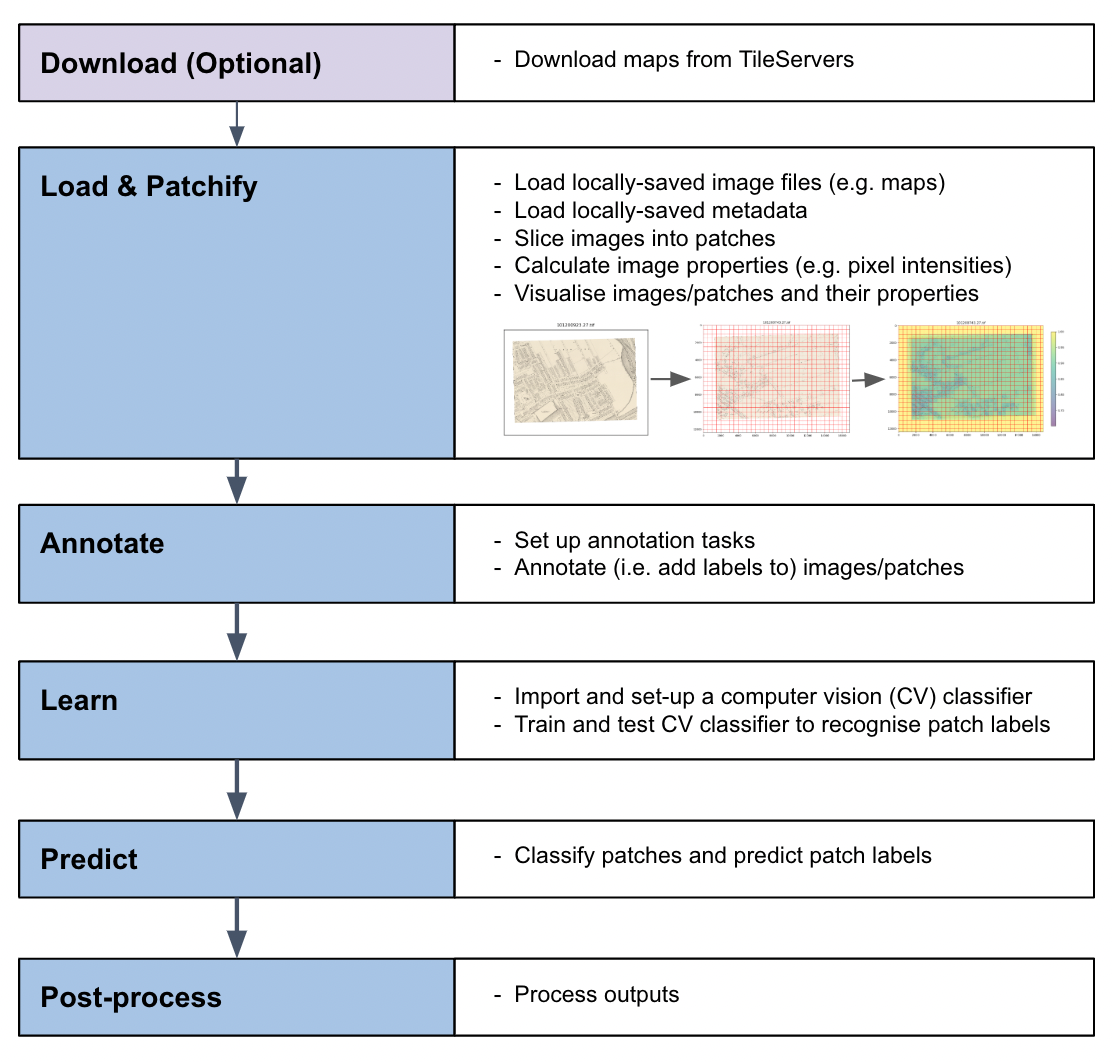
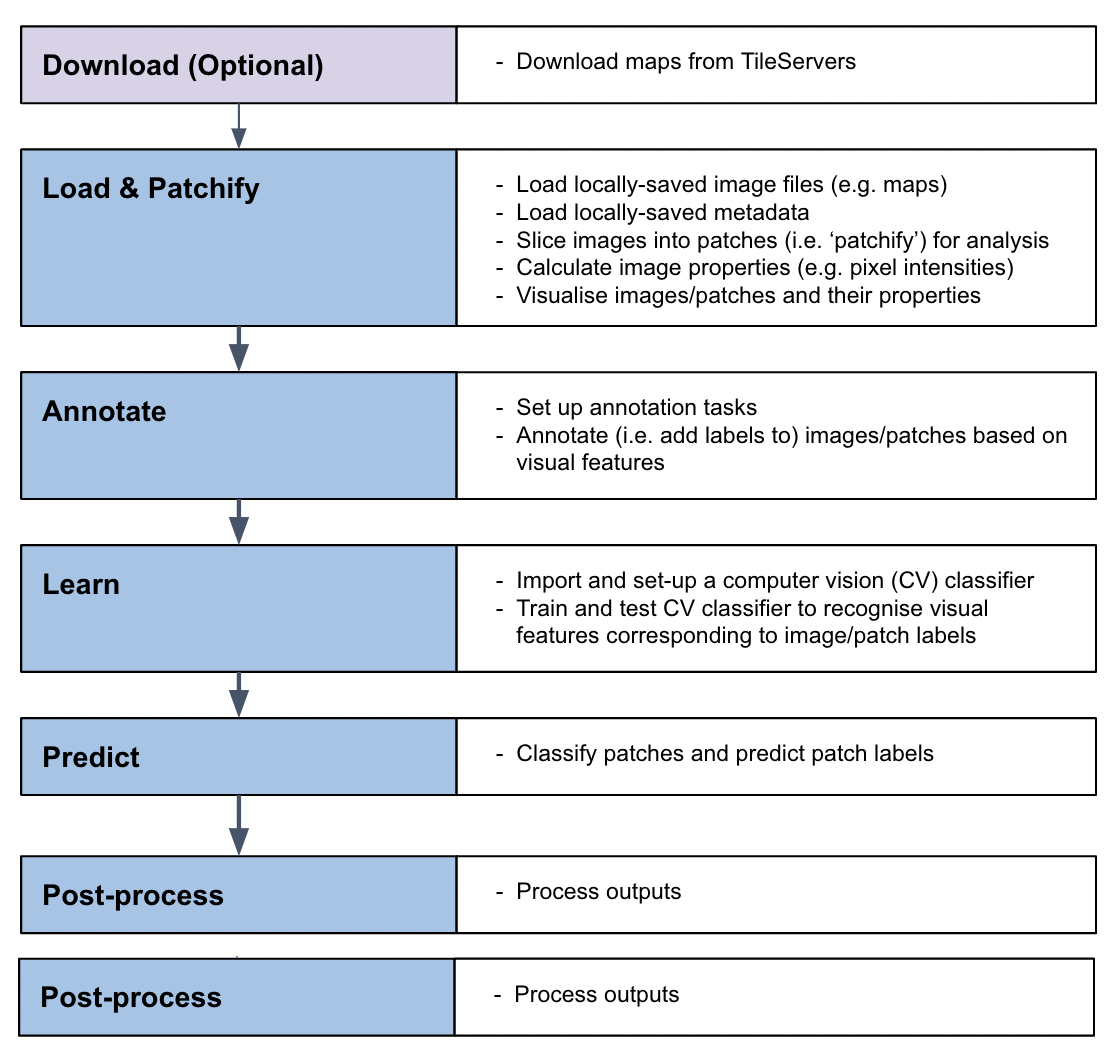
more updates to about and input guidance

Changed region(s): [[0.0, 0.0, 1.0, 0.9011], [0.9784, 0.7768, 1.0, 0.8701], [0.9784, 0.0311, 1.0, 0.0932]]

diff --git a/docs/source/About.rst b/docs/source/About.rst
@@ -6,54 +6,59 @@ What is MapReader?
 
 MapReader is an end-to-end computer vision (CV) pipeline for exploring and analyzing images at scale.
 
-The 'pipeline'
-~~~~~~~~~~~~~~~
+What is unique about MapReader?
+~~~~~~~~~~~~~~~~~~~~~~~~~~~~~~~~
 
-The MapReader pipeline consists of a linear sequence of tasks which can be used to:
+MapReader is based on the 'patchwork method' in which whole map images are sliced into a grid of squares or 'patches':
 
-1. **Download** images/maps and metadata stored on web-servers (e.g. tileserves which can be used to retrieve maps from OpenStreetMap (OSM), the National Library of Scotland (NLS), or elsewhere).
-2. **Load** images/maps and metadata stored locally and **pre-process** these:
-   - 'patchify' images/maps (i.e. slice a whole image/map into smaller patches for analysis),
-   - resample images/maps (use image transformations to alter pixel-dimensions/resolution/orientation/etc.),
-   - remove borders outside the neatline,
-   - reproject maps between coordinate reference systems (CRS).
-3. **Annotate** (i.e. add labels to) images/maps or their patches using an interactive annotation tool.
-4. **Train or fine-tune** a computer vision (CV) classifier to recognise image features associated with these labels.
-5. Use inference to **predict labels** on large sets of images/maps or their patches. 
-6. **Post-process**, analyse and visualise outputs.
+.. image:: figures/patchify.png
+
+This unique way of pre-processing map images enables the use of image classification to identify visual features within maps, in order to answer important research questions.
+
+What is 'the MapReader pipeline'?
+~~~~~~~~~~~~~~~~~~~~~~~~~~~~~~~~~~
+
+The MapReader pipeline consists of a linear sequence of tasks:
 
 .. image:: figures/pipeline_explained.png
+
+Together, these tasks can be used to train a computer vision (CV) classifier to recognise visual features within maps and identify patches containing these features across entire map collections.
+
+What kind of visual features can MapReader help me identify?
+~~~~~~~~~~~~~~~~~~~~~~~~~~~~~~~~~~~~~~~~~~~~~~~~~~~~~~~~~~~~~~~~
+
+In order to train a CV classifier to recognise visual features within your maps, your features must have a homogeneous visual signal across your map collection (i.e. always be represented in the same way).
 
 Why use MapReader?
 -------------------
 
-**Do you want to search the visual contents of a large set of maps to answer a question about the past?**
-MapReader can help you find instances of spatial phenomena in a collection of maps that is too large for you to 'close read/view'.
+MapReader becomes useful when the number of maps you wish to analyse exceeds the number which you (or your team) are willing/capable of annotating manually.
 
-MapReader enables quick, flexible research with large map corpora. 
-It is based on the patchwork method, e.g. scanned map sheets are preprocessed to divide up the content of the map into a grid of squares, or "patches". 
+This exact number will vary depending on:
 
-Using image classificaion at the level of each patch allows users to define classes (labels) of features on maps related to their research questions.
+- the size of your maps, 
+- the features you want to find,
+- the skills you (or your team) have,
+- the amount of time at your disposal.
+ 
+Deciding to use MapReader, which uses deep learning computer vision (CV) models to predict the class of content on patches across many sheets, means weighing the pros and cons of working with the data output that is inferred by the model. 
+Inferred data can be evaluated against expert-annotated data to understand its general quality (are all instances of a feature of interest identified by the model? does the model apply the correct label to that feature?), but in the full dataset there *will necessarily be* some percentage of error. 
 
 MapReader creates output that you can link and analyze in relation to other geospatial datasets (e.g. census, gazetteers, toponyms in text corpora).
 
-You might be interested in using MapReader if...
-~~~~~~~~~~~~~~~~~~~~~~~~~~~~~~~~~~~~~~~~~~~~~~~~~~
+Who might be interested in using MapReader?
+--------------------------------------------
 
-* you have access to a large corpus of georeferenced maps (MapReader can still provide results for non-georeferenced maps)
-* you want to quickly test different labels to help refine a research question that depends on finding content on maps before/without committing to manual vector data creation
-* your maps were created before surveying accuracy reached modern standards, and therefore you do not want to create overly precise geolocated data based on the content of those maps 
+MapReader might be useful to you if:
 
-MapReader is well-suited for finding spatial phenomena that...
-~~~~~~~~~~~~~~~~~~~~~~~~~~~~~~~~~~~~~~~~~~~~~~~~~~~~~~~~~~~~~~~~
+- You have access to a large collection of maps and want to identify visual features within them without having to manually annotating each map.
+- You want to quickly test different labels to help refine a research question that depends on identifying visual features within maps before/without committing to manual vector data creation.
+* Your maps were created before surveying accuracy reached modern standards, and therefore you do not want to create overly precise geolocated data based on the content of those maps.
 
-* have a homogeneous visual signal across many maps in the same style
-* may not correspond to typical categories of map features that are traditionally digitized as vector data in a GIS
-* you then want to combine with other geospatial datasets 
+What skills/knowledge will I need to use MapReader?
+~~~~~~~~~~~~~~~~~~~~~~~~~~~~~~~~~~~~~~~~~~~~~~~~~~~~~
 
-Skills/knowledge you will need to use MapReader
--------------------------------------------------
-
+* Understanding of your map collection and knowledge of visual features you would like to identify within your maps
 * Basic understanding of how to use your terminal
 * Basic python
-* Basic understanding of machine learning and computer vision methodology
+* Basic understanding of machine learning and computer vision (CV) methodology

diff --git a/docs/source/Input-guidance.rst b/docs/source/Input-guidance.rst
@@ -1,26 +1,10 @@
 Input guidance
 ===============
 
-.. contents:: 
-
-Preparing your map corpus
---------------------------
-
-How many maps?
-~~~~~~~~~~~~~~~~
-
-MapReader was designed to help researchers work with large collections of series maps. 
-Deciding to use MapReader, which uses deep learning computer vision (CV) models to predict the class of content on patches across many sheets, means weighing the pros and cons of working with the data output that is inferred by the model. 
-Inferred data can be evaluated against expert-annotated data to understand its general quality (are all instances of a feature of interest identified by the model? does the model apply the correct label to that feature?), but in the full dataset there *will necessarily be* some percentage of error. 
-
-So, MapReader is useful when the number of maps you wish to analyze exceeds the number which you (or a team) might be willing and able to annotate manually, using tools like ArcGIS, QGIS, or web-based annotation interfaces like Recogito. 
-This number will vary depending on the size of your maps, the features you want to find, the skills you and your team have, and the amount of time at your disposal. 
-
 Input options
 --------------
 
 The MapReader pipeline is explained in detail `here <https://mapreader.readthedocs.io/en/latest/About.html>`__.
-
 The inputs you will need for MapReader will depend on where you begin within the pipeline.
 
 Option 1 - If you want to download maps from a TileServer
@@ -50,7 +34,7 @@ If you already have your maps saved locally, you can skip the 'Download' task an
 
 If you would like to work with georeferenced maps, you will need either:
 
-* Your map images saved as standard, non-georeferenced, image files (e.g. JPEG, PNG or TIFF) along with a separate file containing georeferencing metadata you wish to associate to these map images. **OR**
+* Your map images saved as standard, non-georeferenced, image files (e.g. JPEG, PNG or TIFF) along with a separate file containing georeferencing metadata you wish to associate to these map images **OR**
 * You map images saved as georeferenced image files (e.g. geoTIFF).
 
 Alternatively, if you would like to work with non-georeferenced maps/images, you will need:
@@ -60,7 +44,7 @@ Alternatively, if you would like to work with non-georeferenced maps/images, you
 Recommended directory structure
 --------------------------------
 
-We reccomend setting up your files in the following directory structure:
+If you are using non-georeferenced image files (e.g. PNG files) plus a separate metadata file, we reccomend setting these up in the following directory structure:
 
 ::
 
@@ -75,7 +59,7 @@ We reccomend setting up your files in the following directory structure:
     
 This is the directory structure created by default when downloading maps using MapReader's ``Download`` subpackage.
 
-Alternatively, if you are using geoTIFFs, your will not need a metadata file, and so your files can be set up as follows: 
+Alternatively, if you are using geo-referenced image files (eg. geoTIFF files), your will not need a metadata file, and so your files can be set up as follows: 
 
 ::
 
@@ -95,10 +79,10 @@ Alternatively, if you are using geoTIFFs, your will not need a metadata file, an
 Preparing your metadata
 ------------------------
 
-MapReader uses the file names of your map images as a unique identifier (`image_id`s).
-Therefore, if you would like to associate metadata to your map images, then, at minimum, your metadata must contain a column/header named `image_id` whose contents is the file names of your map images.
+MapReader uses the file names of your map images as unique identifiers (``image_id``s).
+Therefore, if you would like to associate metadata to your map images, then, **at minimum**, your metadata must contain a column/header named ``image_id`` whose contents is the file names of your map images.
 
-To load metadata (e.g. georeferencing information, publication dates or any other information about your images) into MapReader, your metadata must be in a `pandas <https://pandas.pydata.org/>`_ readable file format.
+To load metadata (e.g. georeferencing information, publication dates or any other information about your images) into MapReader, your metadata must be in a `pandas readable file format <https://pandas.pydata.org/>`_.
 
 
 Option 1 - Using a ``csv`` file
@@ -123,12 +107,14 @@ If you are loading metadata from a ``csv`` file, your file should be structures 
 
 Your file can contain as many columns/rows as you like, so long as it contains the ``image_id`` column.
 
+.. note:: If the contents of your file contains commas, you should choose a different delimiter when saving your ``csv`` file. We reccomend using the pipe: ``|``.
+
 Option 2 - Loading metadata from other file formats
 ~~~~~~~~~~~~~~~~~~~~~~~~~~~~~~~~~~~~~~~~~~~~~~~~~~~~~
 
-`Pandas is able to read a number of different file formats <https://pandas.pydata.org/docs/user_guide/io.html>`_ so, if your metadata is saved in a different file format, you may still be able to use it. 
+As `Pandas is able to read a number of different file formats <https://pandas.pydata.org/docs/user_guide/io.html>`_, you may still be able to use your metadata even if it is saved in a different file format.
 
-To do this, you will need to:
+To do this, you will need to use python to:
 
 1. Read your file using one of pandas ``read_xxx`` methods and create a dataframe from it.
 2. Ensure there is an ``image_ID`` column to your dataframe (and add one if there is not).
